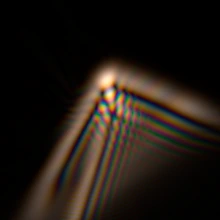
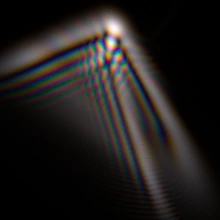
Engiscope: eye straylight in scenes, antialiased pupil, presets fixed, thumbnails
- Scenes add the eye's straylight (CIE 2002 glare spread function, with an
  age control) from 0.1° out: full resolution inside the computed PSF
  field, a 256² grid spanning 3× the view beyond it, handing over smoothly.
  The wave PSF field now ends in a circle and gives up the scattered energy.
- The pupil edge is antialiased over one texel; the hard-edged disc
  diffracted faint spikes along the grid axes, seen as a dotted line through
  the brightest lights.
- Built-in presets are really completed from the defaults now (the
  defaults were being reset to empty after capture).
- A calmer procedural town (~700 lamps, mag +0.5 to -5) and darker auto
  exposure.
- Built-in thumbnails re-baked (relative exposure, so a tile shows shape);
  new tiles for Half blink and -2 D at night.

diff --git a/engiscope/index.html b/engiscope/index.html
@@ -291,6 +291,7 @@
           <div class="ctrl"><div class="row"><label>fov</label><span class="num" id="n_sceneFov"></span></div><input type="range" id="sceneFov" min="1" max="40" step="0.1" value="12" title="field of view (long side)"></div>
           <div class="ctrl"><div class="row"><label>yaw</label><span class="num" id="n_sceneYaw"></span></div><input type="range" id="sceneYaw" min="-180" max="180" step="0.5" value="0" title="yaw"></div>
           <div class="ctrl"><div class="row"><label>pitch</label><span class="num" id="n_scenePitch"></span></div><input type="range" id="scenePitch" min="-85" max="85" step="0.1" value="1.5" title="pitch"></div>
+          <div class="ctrl"><div class="row"><label>age</label><span class="num" id="n_sceneAge"></span></div><input type="range" id="sceneAge" min="10" max="80" step="1" value="30" title="age (straylight grows with it)"></div>
           <div class="ctrl"><div class="row"><label>exposure</label><span class="num" id="n_sceneExp"></span></div><input type="range" id="sceneExp" min="-8" max="12" step="0.05" value="0" title="scene exposure (EV from auto)"></div>
         </div>
       </div>
@@ -364,14 +365,14 @@ const state={ N:256,Nreq:2048,D:4.0,camThresh:0.5,camSoft:0.05,camInvert:false,c
   eye:'R',blink:0,squint:0,lidOn:false,
   lashOn:false,lashUp:1.8,lashLo:0.7,lashFan:40,lashJit:9,lashDens:1,lashClump:0.35,lashCurl:0.45,lashDepth:6,lashThick:0.07,
   gamma:1,exposure:1,zoom:1,absExp:true,airyRing:false,tint:false,showWf:false,showApt:true,occ:false,
-  sceneOn:false,sceneFov:12,sceneYaw:0,scenePitch:1.5,sceneExp:0,sceneGlare:true,gpu:true,
+  sceneOn:false,sceneAge:30,sceneFov:12,sceneYaw:0,scenePitch:1.5,sceneExp:0,sceneGlare:true,gpu:true,
   near:false,nearLog:1.176 };   /* nearLog = log10(source distance, mm) — 15 mm ≈ a speck on glasses */
 ZMODES.forEach(m=>state.coeff[m.id]=0);
 
 let dx, gr=null, zb=null, fbin=null, re=null, im=null, psf=null;
 let antMask=null, antSpecRe=null, antSpecIm=null;
 let accX=null, accY=null, accZ=null;
-let sumA=0, peak=1, peakY=1, peakYdl=1, strehl=1, basisDirty=false, antDirty=true, throughput=1;
+let sumA=0, sumA2=0, peak=1, peakY=1, peakYdl=1, strehl=1, basisDirty=false, antDirty=true, throughput=1;
 let EC={};
 function rotc(c,s,ang){const m=Math.hypot(c,s),t=Math.atan2(s,c)+ang;return [m*Math.cos(t),m*Math.sin(t)];}
 function computeEC(){const a=state.rot*Math.PI/180,c=state.coeff;EC={defocus:c.defocus,sph:c.sph,comaX:c.comaX,comaY:c.comaY,trefX:c.trefX,trefY:c.trefY};
@@ -473,17 +474,28 @@ function ensureCpu(){const N=state.N;if(cpuN===N)return;const len=N*N;ensureOut(
     gr.c2[i]=Math.cos(2*th);gr.s2[i]=Math.sin(2*th);gr.c3[i]=Math.cos(3*th);gr.s3[i]=Math.sin(3*th);}
   cpuN=N;buildBasis();
   lashCpuKey='';}   /* antSpec is new */
-/* same inside-pupil test as the CPU basis (float32 radius <= R) */
-function pupilCount(){const N=state.N,c=N/2,R=state.D/2;let cnt=0;
-  for(let iy=0;iy<N;iy++){const y=(iy-c)*dx;for(let ix=0;ix<N;ix++){const x=(ix-c)*dx;if(Math.fround(Math.sqrt(x*x+y*y))<=R)cnt++;}}
-  return cnt;}
-function buildBasis(){if(cpuN!==state.N){sumA=pupilCount();return;}
-  const len=state.N*state.N,R=state.D/2,a=1/RREF,a2=a*a,a3=a2*a,a4=a3*a;let cnt=0;
-  for(let i=0;i<len;i++){if(gr.r[i]<=R){const rho=a*gr.r[i],rho2=a2*gr.r2[i],rho3=a3*gr.r3[i],rho4=a4*gr.r4[i];
+/* The pupil edge is antialiased over one texel. A hard r<=R disc is a
+   staircase whose flat runs at top, bottom and sides diffract faint spikes
+   along the grid axes -- invisible on a PSF, but a dotted line through every
+   bright light in a scene. sumA = Σa (sets the diffraction-limited peak),
+   sumA2 = Σa² (the energy). */
+function pupilA(r,R){const t=(R-r)/dx+0.5;return t<=0?0:t>=1?1:t;}
+function pupilCount(){const N=state.N,c=N/2,R=state.D/2,ro=R+0.5*dx,ri=R-0.5*dx;let s1=0,s2=0;
+  for(let iy=0;iy<N;iy++){const y=(iy-c)*dx;if(Math.abs(y)>=ro)continue;
+    /* full-amplitude interior counted in one go, only the rim texels looped */
+    const xi=ri*ri>y*y?Math.sqrt(ri*ri-y*y):-1,xo=Math.sqrt(ro*ro-y*y);
+    const i0=Math.max(0,Math.floor(c-xo/dx)-1),i1=Math.min(N-1,Math.ceil(c+xo/dx)+1);
+    const j0=xi>=0?Math.ceil(c-xi/dx)+1:i1+1,j1=xi>=0?Math.floor(c+xi/dx)-1:i1;
+    if(j1>=j0){s1+=j1-j0+1;s2+=j1-j0+1;}
+    for(let ix=i0;ix<=i1;ix++){if(ix>=j0&&ix<=j1)continue;const x=(ix-c)*dx,a=pupilA(Math.fround(Math.sqrt(x*x+y*y)),R);s1+=a;s2+=a*a;}}
+  sumA=s1;sumA2=s2;}
+function buildBasis(){if(cpuN!==state.N){pupilCount();return;}
+  const len=state.N*state.N,R=state.D/2,a=1/RREF,a2=a*a,a3=a2*a,a4=a3*a;
+  for(let i=0;i<len;i++){if(gr.r[i]<R+0.5*dx){const rho=a*gr.r[i],rho2=a2*gr.r2[i],rho3=a3*gr.r3[i],rho4=a4*gr.r4[i];
     zb[0][i]=S3*(2*rho2-1);zb[1][i]=S5*(6*rho4-6*rho2+1);zb[2][i]=S6*rho2*gr.c2[i];zb[3][i]=S6*rho2*gr.s2[i];
-    const cc=(3*rho3-2*rho);zb[4][i]=S8*cc*gr.c1[i];zb[5][i]=S8*cc*gr.s1[i];zb[6][i]=S8*rho3*gr.c3[i];zb[7][i]=S8*rho3*gr.s3[i];cnt++;}
+    const cc=(3*rho3-2*rho);zb[4][i]=S8*cc*gr.c1[i];zb[5][i]=S8*cc*gr.s1[i];zb[6][i]=S8*rho3*gr.c3[i];zb[7][i]=S8*rho3*gr.s3[i];}
     else{for(let k=0;k<zb.length;k++)zb[k][i]=0;}}
-  sumA=cnt;}
+  pupilCount();}
 
 /* ---- eye: lids and lashes ------------------------------------------------
    Everything is in the pupil frame, mm, from the patient's side looking out:
@@ -605,8 +617,9 @@ function fieldAtPupil(lambdaNm,cDeff){const N=state.N,len=N*N,k0=2*Math.PI/(lamb
   const lash=LASH.list.length>0,G=state.lidOn?lidGeom():null,soft=1.5*dx,camL=CAM.on&&!state.camColor&&antMask;
   if(lash){ensureLashCpu();if(lashDepthOn())applyFresnel(lambdaNm,LASH.z);else{for(let i=0;i<len;i++){re[i]=lashM[i];im[i]=0;}}}
   for(let i=0;i<len;i++){
-    if(gr.r[i]<=R||openAll){const W=cDeff*zb[0][i]+cS*zb[1][i]+cA0*zb[2][i]+cA45*zb[3][i]+cCx*zb[4][i]+cCy*zb[5][i]+cTx*zb[6][i]+cTy*zb[7][i];
-      const ph=k0*W;let m=1;
+    const ae=openAll?1:pupilA(gr.r[i],R);
+    if(ae>0){const W=cDeff*zb[0][i]+cS*zb[1][i]+cA0*zb[2][i]+cA45*zb[3][i]+cCx*zb[4][i]+cCy*zb[5][i]+cTx*zb[6][i]+cTy*zb[7][i];
+      const ph=k0*W;let m=ae;
       if(G){const iy=(i/N)|0;m*=lidT(G,(i-iy*N-c0)*dx,(iy-c0)*dx,soft);}
       if(camL)m*=antMask[i];
       const cph=m*Math.cos(ph),sph=m*Math.sin(ph);
@@ -721,10 +734,10 @@ function finishSpectral(ybSum,ybPk){const len=state.N*state.N;let pk=0,sY=0;
    ybSum = Σ ȳ (energy), ybPk = Σ ȳ·specW (diffraction-limited peak). */
 function finishStats(pk,sY,ybSum,ybPk){const len=state.N*state.N;peak=peakY=pk;if(ybPk===undefined)ybPk=ybSum;
   if(state.near){peakYdl=ybSum;           /* geometric irradiance of the open pupil */
-    strehl=ybSum>0?pk/ybSum:0;throughput=(sumA>0&&ybSum>0)?sY/(sumA*ybSum):1;return;}
+    strehl=ybSum>0?pk/ybSum:0;throughput=(sumA2>0&&ybSum>0)?sY/(sumA2*ybSum):1;return;}
   peakYdl=sumA*sumA*ybPk;                  /* diffraction-limited peak */
   strehl=sumA>0?Math.min(1,pk/peakYdl):0;
-  throughput=(sumA>0&&ybSum>0)?sY/(len*sumA*ybSum):1;}
+  throughput=(sumA2>0&&ybSum>0)?sY/(len*sumA2*ybSum):1;}
 
 function wlRGB(wl){let R=0,G=0,B=0;
   if(wl<440){R=-(wl-440)/60;B=1;}else if(wl<490){G=(wl-440)/50;B=1;}else if(wl<510){G=1;B=-(wl-510)/20;}
@@ -923,7 +936,8 @@ function gsCtx(){
       ' float m=(useMask==1)?texelFetch(mk,fc,0).r:1.0;if(useCam==1)m*=dot(texelFetch(cm,fc,0).rgb,cw);\n'+
       ' if(lidOn==1){float u=x-lu.y,v=x-ll.y;m*=smoothstep(0.0,1.0,(lu.x-lu.z*u*u+lu.w*x-y)/lsoft+0.5)*smoothstep(0.0,1.0,(y-ll.x-ll.z*v*v)/lsoft+0.5);}\n'+
       ' vec2 t=vec2(m,0.0);if(lashMode==1)t*=texelFetch(lm,fc,0).r;else if(lashMode==2)t=texelFetch(lm,fc,0).rg*(lmScale*m);\n'+
-      ' if(r<=R){float rho=a*r,rho2=rho*rho,rho3=rho2*rho,rho4=rho3*rho;float c1=r>0.0?x/r:1.0,s1=r>0.0?y/r:0.0;\n'+
+      ' float ae=clamp((R-r)/dx+0.5,0.0,1.0);if(openAll==0)t*=ae;\n'+
+      ' if(ae>0.0){float rho=a*r,rho2=rho*rho,rho3=rho2*rho,rho4=rho3*rho;float c1=r>0.0?x/r:1.0,s1=r>0.0?y/r:0.0;\n'+
       '  float c2=c1*c1-s1*s1,s2=2.0*c1*s1,c3=c1*(4.0*c1*c1-3.0),s3=s1*(3.0-4.0*s1*s1),cc=3.0*rho3-2.0*rho;\n'+
       '  float W=cD*S3*(2.0*rho2-1.0)+cS*S5*(6.0*rho4-6.0*rho2+1.0)+cA0*S6*rho2*c2+cA45*S6*rho2*s2+cCx*S8*cc*c1+cCy*S8*cc*s1+cTx*S8*rho3*c3+cTy*S8*rho3*s3;\n'+
       '  float ph=k0*W;ph-=TAU*floor(ph/TAU);float cp=cos(ph),sp=sin(ph);o=vec4(t.x*cp-t.y*sp,t.x*sp+t.y*cp,0.0,0.0);}\n'+
@@ -1438,9 +1452,17 @@ ctrlCol.addEventListener('dragover',e=>{if(!dragCard)return;e.preventDefault();c
    every one of them is spread by the PSF itself rather than smeared into
    the blocks of an equirect map. Extended light (sky, moon disc) is drawn
    analytically or sampled with filtering, and is convolved too.
-   Units: radiance per sr, flux in units of a magnitude-0 star. */
+   Units: radiance per sr, flux in units of a magnitude-0 star.
+   Past the edge of the computed PSF field the eye still scatters light --
+   cornea, lens, fundus -- out to tens of degrees. That straylight is the CIE
+   2002 glare spread function (θ in degrees, A = age, p = pigmentation):
+     Ψ(θ) = 10/θ³ + (5/θ² + 0.1p/θ)(1 + (A/62.5)⁴) + 0.0025p   sr⁻¹
+   added from 0.1° out (the wave PSF has no scatter in it). It is smooth, so it is
+   convolved on a coarse 256² grid spanning 3× the view (no wrap-around into
+   what you see) and added back. It also buries the FFT's float32 rounding
+   (~1e-11 of a source, along its row and column) under real veil. */
 const POLY_URL="https://dl.polyhaven.org/file/ph-assets/HDRIs/exr/4k/moonless_golf_4k.exr";
-const SC={NS:2048,PAD:1.15,src:null,srcVer:0,set:null,kKey:'',sKey:'',ks:[1,1,1],psfVer:0,eqVer:-1,ptVer:-1,ptN:0};
+const SC={NS:2048,PAD:1.15,NL:256,PADL:3,lset:null,lkKey:'',lsKey:'',lrKey:'',fout:0,src:null,srcVer:0,set:null,kKey:'',sKey:'',ks:[1,1,1],psfVer:0,eqVer:-1,ptVer:-1,ptN:0};
 let hdriStatus='night';
 function setSceneStatus(s){if(s!==undefined)hdriStatus=s;const e=document.getElementById("sceneStatus");if(e)e.textContent=hdriStatus;}
 function sceneFovEff(){return state.sceneFov/Math.max(1,state.zoom);}
@@ -1456,7 +1478,8 @@ function bvRGB(bv){const T=4600*(1/(0.92*bv+1.7)+1/(0.92*bv+0.62)),t=T/100;
 function airmass(lat){const a=Math.max(0.5,lat*180/Math.PI);return 1/Math.sin((a+244/(165+47*Math.pow(a,1.1)))*Math.PI/180);}
 /* procedural night: a dark rural-ish sky over a distant town. ~30k stars to
    mag 8 (counts rising ~10^0.45m), two planets, a moon off to the left,
-   and ~1500 town lights from mag -10 to -1: sodium, LED, warm white,
+   and ~700 lights of a town a few km off (1000 cd lamps ≈ mag -2 at 10 km),
+   mag +0.5 to -5: sodium, LED, warm white,
    a few signals. Stars near the horizon are extincted and reddened. */
 function loadProcedural(){const w=2048,h=1024,d=new Float32Array(w*h*3),rng=mulberry32(7);
   for(let y=0;y<h;y++){const lat=(0.5-(y+0.5)/h)*Math.PI;
@@ -1475,10 +1498,10 @@ function loadProcedural(){const w=2048,h=1024,d=new Float32Array(w*h*3),rng=mulb
   push(dirOf(-0.35,0.14),Math.pow(10,1.76),bvRGB(0.8));       /* Venus-like, mag -4.4 */
   push(dirOf(0.42,0.52),Math.pow(10,1.0),bvRGB(0.9));         /* Jupiter-like, mag -2.5 */
   const COL=[[1,0.55,0.16],[1,0.9,0.78],[1,0.74,0.48],[1,0.12,0.06],[0.25,1,0.45],[0.6,0.75,1]];
-  for(let s=0;s<1500;s++){const street=rng()<0.6;let lon,lat;
+  for(let s=0;s<700;s++){const street=rng()<0.6;let lon,lat;
     if(street){const k=(rng()*14)|0,a=-0.55+k*0.08,t=rng();lon=a+t*0.06;lat=-0.004+t*0.007*(k%2?1:-0.4);}
     else{lon=(rng()*2-1)*0.62;lat=-0.012+rng()*0.016;}
-    const u=rng(),ci=u<0.45?0:u<0.8?1:u<0.95?2:3+((rng()*3)|0),m=rng()<0.02?-7-2*rng():-0.5-5.5*Math.pow(rng(),2.5);
+    const u=rng(),ci=u<0.45?0:u<0.8?1:u<0.95?2:3+((rng()*3)|0),m=rng()<0.03?-4-1.5*rng():0.5-3.5*Math.pow(rng(),1.8);
     const c=COL[ci],Y=0.2126*c[0]+0.7152*c[1]+0.0722*c[2];push(dirOf(lon,lat),Math.pow(10,-0.4*m)/Y,c);}
   push(dirOf(0.03,0.055),Math.pow(10,1.2),[1,0.12,0.05]);    /* a mast beacon */
   setSource({name:'night',eq:{w,h,data:d},pts:new Float32Array(P),
@@ -1509,7 +1532,7 @@ function extractPoints(eq){const {w,h,data}=eq,Y=new Float32Array(w*h),P=[];
 function setSource(src){const eq=src.eq,Ys=[];   /* median of the sky (upper half) */
   for(let i=0;i<eq.w*(eq.h>>1);i+=97)Ys.push(0.2126*eq.data[i*3]+0.7152*eq.data[i*3+1]+0.0722*eq.data[i*3+2]);
   Ys.sort((a,b)=>a-b);const med=Ys[Ys.length>>1]||1;
-  src.base=0.012/Math.max(1e-12,med);  /* auto exposure: the sky just above black */
+  src.base=0.006/Math.max(1e-12,med);  /* auto exposure: the sky just above black */
   SC.src=src;SC.srcVer++;setSceneStatus(src.name+' · '+eq.w+'×'+eq.h+' · '+(src.pts.length/6|0)+' points');
   if(state.sceneOn)requestCompute();}
 function setHDRI(name,parsed){setSceneStatus('finding point lights…');
@@ -1517,7 +1540,7 @@ function setHDRI(name,parsed){setSceneStatus('finding point lights…');
 
 /* --- GPU --------------------------------------------------------------- */
 function scCtx(){if(SC.ready)return true;if(SC.failed||!gsCtx())return false;const gl=gs.gl;
-  try{SC.blend=!!gl.getExtension('EXT_float_blend');gl.getExtension('OES_texture_float_linear');
+  try{SC.blend=!!gl.getExtension('EXT_float_blend');SC.flin=!!gl.getExtension('OES_texture_float_linear');
     const H='#version 300 es\nprecision highp float;precision highp int;\n';
     const mk=(vs,fs,attrs)=>{const c=(t,src)=>{const sh=gl.createShader(t);gl.shaderSource(sh,src);gl.compileShader(sh);if(!gl.getShaderParameter(sh,gl.COMPILE_STATUS))throw new Error(gl.getShaderInfoLog(sh));return sh;};
       const pr=gl.createProgram();gl.attachShader(pr,c(gl.VERTEX_SHADER,vs));gl.attachShader(pr,c(gl.FRAGMENT_SHADER,fs));
@@ -1541,38 +1564,52 @@ function scCtx(){if(SC.ready)return true;if(SC.failed||!gsCtx())return false;con
       'vec3 at(vec2 p){vec2 f=floor(p);vec2 a=p-f;ivec2 i=ivec2(f);if(i.x<0||i.y<0||i.x+1>=N||i.y+1>=N)return vec3(0.0);\n'+
       ' vec3 s=mix(mix(texelFetch(acc,i,0).rgb,texelFetch(acc,i+ivec2(1,0),0).rgb,a.x),mix(texelFetch(acc,i+ivec2(0,1),0).rgb,texelFetch(acc,i+ivec2(1,1),0).rgb,a.x),a.y);return s;}\n'+
       'void main(){ivec2 k=ivec2(gl_FragCoord.xy);vec2 d=vec2(k.x<NS/2?k.x:k.x-NS,k.y<NS/2?k.y:k.y-NS);float h=float(N/2);\n'+
-      ' float e=max(abs(d.x),abs(d.y))*ratio/h;if(e>1.0){o=vec4(0.0);return;}vec3 X=vec3(0.0);\n'+
+      ' float e=length(d)*ratio/h;if(e>1.0){o=vec4(0.0);return;}vec3 X=vec3(0.0);\n'+
       ' for(int j=0;j<16;j++){if(j>=n)break;for(int i=0;i<16;i++){if(i>=n)break;vec2 u=(d+(vec2(i,j)+0.5)/float(n)-0.5)*ratio;X+=at(vec2(h)-u);}}\n'+
       ' vec3 c=vec3(3.2406*X.x-1.5372*X.y-0.4986*X.z,-0.9689*X.x+1.8758*X.y+0.0415*X.z,0.0557*X.x-0.2040*X.y+1.0570*X.z);\n'+
-      /* the computed field ends in a square; ease it out over its outer quarter so
-         the brightest lights don't print that square */
+      /* the computed field is ended in a circle, eased out over its outer
+         quarter, so the brightest lights don't print the grid's square */
       ' float tp=0.5+0.5*cos(3.14159265*clamp((e-0.75)/0.25,0.0,1.0));o=vec4(max(c,0.0)*tp,0.0);}');
     /* spectrum product, unpacking (R+iG, B) on both sides */
-    SC.pMUL=mk(GS_VS,H+'uniform sampler2D sc;uniform sampler2D kr;uniform int NS;uniform vec3 ks;out vec4 o;\n'+
+    SC.pMUL=mk(GS_VS,H+'uniform sampler2D sc;uniform sampler2D kr;uniform sampler2D k2;uniform int use2;uniform int NS;uniform vec3 ks;out vec4 o;\n'+
       'vec2 cm(vec2 a,vec2 b){return vec2(a.x*b.x-a.y*b.y,a.x*b.y+a.y*b.x);}\n'+
       'void main(){ivec2 k=ivec2(gl_FragCoord.xy),q=ivec2((NS-k.x)%NS,(NS-k.y)%NS);vec4 s=texelFetch(sc,k,0),sn=texelFetch(sc,q,0),c=texelFetch(kr,k,0),cn=texelFetch(kr,q,0);\n'+
       ' vec2 Zs=s.xy,Zsn=vec2(sn.x,-sn.y),Zk=c.xy,Zkn=vec2(cn.x,-cn.y);\n'+
-      ' vec2 R=(Zs+Zsn)*0.5,G=cm(Zs-Zsn,vec2(0.0,-0.5)),KR=(Zk+Zkn)*0.5*ks.x,KG=cm(Zk-Zkn,vec2(0.0,-0.5))*ks.y;\n'+
-      ' o=vec4(cm(R,KR)+cm(vec2(0.0,1.0),cm(G,KG)),cm(s.zw,c.zw*ks.z));}');
-    /* tone: ACES on exposure, visible crop, k×k box */
-    SC.pTON=mk(GS_VS,H+'uniform sampler2D src;uniform ivec2 c0;uniform int k;uniform float E;uniform int NS;out vec4 o;\n'+
+      ' vec2 R=(Zs+Zsn)*0.5,G=cm(Zs-Zsn,vec2(0.0,-0.5)),KR=(Zk+Zkn)*0.5*ks.x,KG=cm(Zk-Zkn,vec2(0.0,-0.5))*ks.y;vec2 KB=c.zw*ks.z;\n'+
+      ' if(use2==1){vec4 e=texelFetch(k2,k,0),en=texelFetch(k2,q,0);vec2 Z2=e.xy,Z2n=vec2(en.x,-en.y);KR+=(Z2+Z2n)*0.5;KG+=cm(Z2-Z2n,vec2(0.0,-0.5));KB+=e.zw;}\n'+
+      ' o=vec4(cm(R,KR)+cm(vec2(0.0,1.0),cm(G,KG)),cm(s.zw,KB));}');
+    /* straylight kernel on the coarse grid. The wave PSF has diffraction and
+       aberration but no scatter, so Ψ is added everywhere (inside the
+       computed field too), ramped in over 0.1-0.3° where the CIE fit starts. */
+    /* far: the coarse-grid share, near: the full-resolution share; they hand
+       over between c0 and c1 degrees, inside the computed field */
+    SC.pSLK=mk(GS_VS,H+'uniform int NL;uniform float psd;uniform float om;uniform float age;uniform float pig;uniform float g;uniform int far;uniform vec2 cx;out vec4 o;\n'+
+      'void main(){ivec2 k=ivec2(gl_FragCoord.xy);vec2 d=vec2(k.x<NL/2?k.x:k.x-NL,k.y<NL/2?k.y:k.y-NL);\n'+
+      ' float th=max(length(d)*psd,0.1);float f=1.0+pow(age/62.5,4.0),hand=smoothstep(cx.x,cx.y,th),w=smoothstep(0.1,0.3,th)*(far==1?hand:1.0-hand);\n'+
+      ' float psi=10.0/(th*th*th)+(5.0/(th*th)+0.1*pig/th)*f+0.0025*pig;float v=psi*om*w*g;o=vec4(v,v,v,0.0);}');
+    /* tone: ACES on exposure, visible crop, k×k box, plus the coarse straylight */
+    SC.pTON=mk(GS_VS,H+'uniform sampler2D src;uniform sampler2D lo;uniform int slOn;uniform float EL;uniform float lsc;uniform int NL;uniform ivec2 c0;uniform int k;uniform float E;uniform int NS;out vec4 o;\n'+
       'vec3 aces(vec3 x){return clamp((x*(2.51*x+0.03))/(x*(2.43*x+0.59)+0.14),0.0,1.0);}\n'+
       'vec3 s2s(vec3 c){vec3 lo=12.92*c;vec3 hi=1.055*pow(max(c,0.0),vec3(1.0/2.4))-0.055;return mix(lo,hi,step(0.0031308,c));}\n'+
       'void main(){ivec2 p=c0+ivec2(gl_FragCoord.xy)*k;vec3 s=vec3(0.0);float n=0.0;\n'+
-      ' for(int j=0;j<k;j++)for(int i=0;i<k;i++){ivec2 q=p+ivec2(i,j);if(q.x<NS&&q.y<NS){s+=s2s(aces(max(texelFetch(src,q,0).rgb,0.0)*E));n+=1.0;}}o=vec4(s/max(n,1.0),1.0);}');
+      ' for(int j=0;j<k;j++)for(int i=0;i<k;i++){ivec2 q=p+ivec2(i,j);if(q.x<NS&&q.y<NS){vec3 c=max(texelFetch(src,q,0).rgb,0.0)*E;\n'+
+      '  if(slOn==1){vec2 u=((vec2(q)+0.5-float(NS/2))*lsc+float(NL/2))/float(NL);c+=max(texture(lo,u).rgb,0.0)*EL;}\n'+
+      '  s+=s2s(aces(c));n+=1.0;}}o=vec4(s/max(n,1.0),1.0);}');
     SC.pvao=gl.createVertexArray();gl.bindVertexArray(SC.pvao);SC.pbuf=gl.createBuffer();gl.bindBuffer(gl.ARRAY_BUFFER,SC.pbuf);
     gl.enableVertexAttribArray(0);gl.vertexAttribPointer(0,3,gl.FLOAT,false,24,0);gl.enableVertexAttribArray(1);gl.vertexAttribPointer(1,3,gl.FLOAT,false,24,12);
     gl.bindVertexArray(gs.vao);
     SC.ready=true;return true;
   }catch(e){console.warn('scene GPU init failed:',e.message);SC.failed=true;return false;}}
-function scSet(){const gl=gs.gl,NS=SC.NS;if(SC.set&&SC.set.NS===NS)return SC.set;
-  const S={NS,tex:[],fbo:[]};
+function scSet(low){const gl=gs.gl,NS=low?SC.NL:SC.NS,cur=low?SC.lset:SC.set;if(cur&&cur.NS===NS)return cur;
+  const S={NS,tex:[],fbo:[]},filt=(low&&SC.flin)?gl.LINEAR:gl.NEAREST;
   const tex=()=>{const t=gl.createTexture();gl.bindTexture(gl.TEXTURE_2D,t);
-    gl.texParameteri(gl.TEXTURE_2D,gl.TEXTURE_MIN_FILTER,gl.NEAREST);gl.texParameteri(gl.TEXTURE_2D,gl.TEXTURE_MAG_FILTER,gl.NEAREST);
+    gl.texParameteri(gl.TEXTURE_2D,gl.TEXTURE_MIN_FILTER,filt);gl.texParameteri(gl.TEXTURE_2D,gl.TEXTURE_MAG_FILTER,filt);
+    gl.texParameteri(gl.TEXTURE_2D,gl.TEXTURE_WRAP_S,gl.CLAMP_TO_EDGE);gl.texParameteri(gl.TEXTURE_2D,gl.TEXTURE_WRAP_T,gl.CLAMP_TO_EDGE);
     gl.texStorage2D(gl.TEXTURE_2D,1,gl.RGBA32F,NS,NS);S.tex.push(t);return t;};
   const fbo=t=>{const f=gl.createFramebuffer();gl.bindFramebuffer(gl.FRAMEBUFFER,f);gl.framebufferTexture2D(gl.FRAMEBUFFER,gl.COLOR_ATTACHMENT0,gl.TEXTURE_2D,t,0);S.fbo.push(f);return f;};
   S.A=tex();S.B=tex();S.K=tex();S.Ssp=tex();S.fA=fbo(S.A);S.fB=fbo(S.B);S.fK=fbo(S.K);S.fS=fbo(S.Ssp);
-  gl.bindFramebuffer(gl.FRAMEBUFFER,null);SC.set=S;return S;}
+  if(!low){S.K2=tex();S.fK2=fbo(S.K2);}
+  gl.bindFramebuffer(gl.FRAMEBUFFER,null);if(low)SC.lset=S;else SC.set=S;return S;}
 /* the PSF FFT program on RGBA: two complex signals per texel */
 function scFFT(S,fromA,sign){const gl=gs.gl,n=S.NS,P=gs.pFFT;gl.useProgram(P);gl.viewport(0,0,n,n);
   gl.uniform1i(P.u('N'),n);gl.uniform1i(P.u('src'),0);gl.uniform1f(P.u('sgn'),sign);gl.activeTexture(gl.TEXTURE0);
@@ -1584,6 +1621,26 @@ function camMat(){const p=state.scenePitch*Math.PI/180,y=state.sceneYaw*Math.PI/
   const R=[[cy,sy*sp,sy*cp],[0,cp,-sp],[-sy,cy*sp,cy*cp]];   /* rows */
   return {M:[R[0][0],R[1][0],R[2][0],R[0][1],R[1][1],R[2][1],R[0][2],R[1][2],R[2][2]],
           Mi:[R[0][0],R[0][1],R[0][2],R[1][0],R[1][1],R[1][2],R[2][0],R[2][1],R[2][2]]};}
+/* background + moon + points into S.A, for a grid of S.NS spanning fov (rad) */
+function scRender(S,t,fov,cm){const gl=gs.gl,NS=S.NS,src=SC.src,P=SC.pSCN;
+  gl.useProgram(P);gl.bindFramebuffer(gl.FRAMEBUFFER,S.fA);gl.viewport(0,0,NS,NS);
+  gl.activeTexture(gl.TEXTURE0);gl.bindTexture(gl.TEXTURE_2D,SC.eqTex);gl.uniform1i(P.u('eq'),0);
+  gl.uniformMatrix3fv(P.u('M'),false,cm.M);gl.uniform1f(P.u('t'),t);gl.uniform1i(P.u('NS'),NS);gl.uniform1f(P.u('pxa'),fov/NS);
+  const m=src.moon;gl.uniform1i(P.u('moonOn'),m?1:0);
+  if(m){gl.uniform3f(P.u('md'),m.dir[0],m.dir[1],m.dir[2]);gl.uniform1f(P.u('mr'),m.rad);gl.uniform3f(P.u('mL'),m.L*m.rgb[0],m.L*m.rgb[1],m.L*m.rgb[2]);}
+  gsQuad();
+  if(SC.blend&&SC.ptN){const Q=SC.pPTS;gl.useProgram(Q);gl.bindVertexArray(SC.pvao);
+    gl.uniformMatrix3fv(Q.u('Mi'),false,cm.Mi);gl.uniform1f(Q.u('t'),t);gl.uniform1i(Q.u('NS'),NS);gl.uniform1f(Q.u('om'),Math.pow(2*t/NS,2));
+    gl.enable(gl.BLEND);gl.blendFunc(gl.ONE,gl.ONE);gl.drawArrays(gl.POINTS,0,SC.ptN);gl.disable(gl.BLEND);gl.bindVertexArray(gs.vao);}}
+/* FFT S.A in place and keep the spectrum in S.Ssp */
+function scSpectrum(S){const gl=gs.gl,inA=scFFT(S,true,-1);gl.useProgram(gs.pCPY);gl.uniform1i(gs.pCPY.u('src'),0);gl.uniform1i(gs.pCPY.u('mode'),2);
+  gl.bindFramebuffer(gl.FRAMEBUFFER,S.fS);gl.viewport(0,0,S.NS,S.NS);gl.activeTexture(gl.TEXTURE0);gl.bindTexture(gl.TEXTURE_2D,inA?S.A:S.B);gsQuad();}
+/* product of S.Ssp and S.K, back to space; returns the texture holding it */
+function scProduct(S,ks,k2){const gl=gs.gl,P=SC.pMUL,NS=S.NS;gl.useProgram(P);gl.bindFramebuffer(gl.FRAMEBUFFER,S.fA);gl.viewport(0,0,NS,NS);
+  gl.activeTexture(gl.TEXTURE0);gl.bindTexture(gl.TEXTURE_2D,S.Ssp);gl.activeTexture(gl.TEXTURE1);gl.bindTexture(gl.TEXTURE_2D,S.K);
+  gl.activeTexture(gl.TEXTURE2);gl.bindTexture(gl.TEXTURE_2D,k2||S.K);gl.uniform1i(P.u('k2'),2);gl.uniform1i(P.u('use2'),k2?1:0);
+  gl.uniform1i(P.u('sc'),0);gl.uniform1i(P.u('kr'),1);gl.uniform1i(P.u('NS'),NS);gl.uniform3f(P.u('ks'),ks[0],ks[1],ks[2]);gsQuad();
+  return scFFT(S,true,1)?S.A:S.B;}
 function sceneCompute(){
   if(!gs.frame||!scCtx()||!SC.src){const msg=!SC.src?'loading…':'scene needs the GPU path';setSceneStatus(msg);draw0();return;}
   const gl=gs.gl,S=scSet(),NS=S.NS,src=SC.src,fov=sceneFovEff()*SC.PAD*Math.PI/180,t=Math.tan(fov/2),ps=fov/NS*ARCSEC;
@@ -1596,8 +1653,23 @@ function sceneCompute(){
     gl.texImage2D(gl.TEXTURE_2D,0,gl.RGBA16F,eq.w,eq.h,0,gl.RGBA,gl.FLOAT,rgba);
     gl.bindBuffer(gl.ARRAY_BUFFER,SC.pbuf);gl.bufferData(gl.ARRAY_BUFFER,src.pts,gl.STATIC_DRAW);SC.ptN=src.pts.length/6;SC.eqVer=SC.srcVer;}
   const glare=state.sceneGlare;
+  /* coarse straylight: kernel, scene and product on the 256² grid */
+  const L=scSet(true),NL=L.NS,fovL=sceneFovEff()*SC.PADL*Math.PI/180,tL=Math.tan(fovL/2),psL=fovL/NL*ARCSEC,pp=arcAt(gs.cur.N);
+  const lkKey=[throughput.toFixed(6),psL.toFixed(5),ps.toFixed(5),pp.toFixed(5),gs.cur.N,state.sceneAge].join('|');
+  if(glare&&lkKey!==SC.lkKey){
+    /* hand-over inside the computed field: 40-70% of its radius */
+    const Rf=gs.cur.N/2*pp/3600,cx=[0.4*Rf,0.7*Rf],px=new Float32Array(4);let dc=0;
+    const slk=(T,n,psec,far,dst)=>{const P=SC.pSLK;gl.useProgram(P);gl.bindFramebuffer(gl.FRAMEBUFFER,T.fA);gl.viewport(0,0,n,n);
+      gl.uniform1i(P.u('NL'),n);gl.uniform1f(P.u('psd'),psec/3600);gl.uniform1f(P.u('om'),Math.pow(psec/ARCSEC,2));gl.uniform1i(P.u('far'),far);
+      gl.uniform2f(P.u('cx'),cx[0],cx[1]);gl.uniform1f(P.u('age'),state.sceneAge);gl.uniform1f(P.u('pig'),0.5);gl.uniform1f(P.u('g'),Math.max(0,throughput));gsQuad();
+      const inA=scFFT(T,true,-1);gl.useProgram(gs.pCPY);gl.uniform1i(gs.pCPY.u('src'),0);gl.uniform1i(gs.pCPY.u('mode'),2);
+      gl.bindFramebuffer(gl.FRAMEBUFFER,dst);gl.activeTexture(gl.TEXTURE0);gl.bindTexture(gl.TEXTURE_2D,inA?T.A:T.B);gsQuad();
+      gl.readPixels(0,0,1,1,gl.RGBA,gl.FLOAT,px);dc+=px[0];};
+    slk(L,NL,psL,1,L.fK);slk(S,NS,ps,0,S.fK2);
+    /* the energy scattered out comes from the core */
+    SC.fout=Math.min(0.5,Math.max(0,dc/Math.max(1e-9,throughput)));SC.lkKey=lkKey;SC.lrKey='';SC.kKey='';SC.sKey='';}
   /* kernel spectrum: once per PSF frame and scene scale */
-  const kKey=SC.psfVer+'|'+ps.toFixed(5)+'|'+NS;
+  const kKey=SC.psfVer+'|'+ps.toFixed(5)+'|'+NS+'|'+SC.fout.toFixed(6);
   if(glare&&kKey!==SC.kKey){const P=SC.pKER,N=gs.cur.N,ratio=ps/arcAt(N);
     gl.useProgram(P);gl.bindFramebuffer(gl.FRAMEBUFFER,S.fA);gl.viewport(0,0,NS,NS);
     gl.activeTexture(gl.TEXTURE0);gl.bindTexture(gl.TEXTURE_2D,gs.cur.acc[gs.cur.cur]);gl.uniform1i(P.u('acc'),0);
@@ -1607,37 +1679,33 @@ function sceneCompute(){
     gl.useProgram(gs.pCPY);gl.uniform1i(gs.pCPY.u('src'),0);gl.uniform1i(gs.pCPY.u('mode'),2);gl.bindFramebuffer(gl.FRAMEBUFFER,S.fK);
     gl.bindTexture(gl.TEXTURE_2D,inA?S.A:S.B);gsQuad();
     const px=new Float32Array(4);gl.readPixels(0,0,1,1,gl.RGBA,gl.FLOAT,px);
-    const tp=Math.max(0,throughput);SC.ks=[px[0]>0?tp/px[0]:0,px[1]>0?tp/px[1]:0,px[2]>0?tp/px[2]:0];SC.kKey=kKey;SC.sKey='';}
+    const tp=Math.max(0,throughput)*(1-SC.fout);SC.ks=[px[0]>0?tp/px[0]:0,px[1]>0?tp/px[1]:0,px[2]>0?tp/px[2]:0];SC.kKey=kKey;SC.sKey='';}
   /* scene spectrum: once per view */
   const cm=camMat(),sKey=[SC.srcVer,state.sceneYaw,state.scenePitch,fov.toFixed(6),NS,glare].join('|');
-  if(sKey!==SC.sKey){const P=SC.pSCN;gl.useProgram(P);gl.bindFramebuffer(gl.FRAMEBUFFER,S.fA);gl.viewport(0,0,NS,NS);
-    gl.activeTexture(gl.TEXTURE0);gl.bindTexture(gl.TEXTURE_2D,SC.eqTex);gl.uniform1i(P.u('eq'),0);
-    gl.uniformMatrix3fv(P.u('M'),false,cm.M);gl.uniform1f(P.u('t'),t);gl.uniform1i(P.u('NS'),NS);gl.uniform1f(P.u('pxa'),fov/NS);
-    const m=src.moon;gl.uniform1i(P.u('moonOn'),m?1:0);
-    if(m){gl.uniform3f(P.u('md'),m.dir[0],m.dir[1],m.dir[2]);gl.uniform1f(P.u('mr'),m.rad);gl.uniform3f(P.u('mL'),m.L*m.rgb[0],m.L*m.rgb[1],m.L*m.rgb[2]);}
-    gsQuad();
-    if(SC.blend&&SC.ptN){const Q=SC.pPTS;gl.useProgram(Q);gl.bindVertexArray(SC.pvao);
-      gl.uniformMatrix3fv(Q.u('Mi'),false,cm.Mi);gl.uniform1f(Q.u('t'),t);gl.uniform1i(Q.u('NS'),NS);gl.uniform1f(Q.u('om'),Math.pow(2*t/NS,2));
-      gl.enable(gl.BLEND);gl.blendFunc(gl.ONE,gl.ONE);gl.drawArrays(gl.POINTS,0,SC.ptN);gl.disable(gl.BLEND);gl.bindVertexArray(gs.vao);}
+  if(sKey!==SC.sKey){scRender(S,t,fov,cm);
     if(glare){const inA=scFFT(S,true,-1);gl.useProgram(gs.pCPY);gl.uniform1i(gs.pCPY.u('mode'),2);gl.bindFramebuffer(gl.FRAMEBUFFER,S.fS);
       gl.activeTexture(gl.TEXTURE0);gl.bindTexture(gl.TEXTURE_2D,inA?S.A:S.B);gsQuad();}
     SC.sKey=sKey;SC.rKey='';}
+  const lsKey=sKey+'|L';
+  if(glare&&lsKey!==SC.lsKey){scRender(L,tL,fovL,cm);scSpectrum(L);SC.lsKey=lsKey;SC.lrKey='';}
+  if(glare&&SC.lrKey!==SC.lkKey+'#'+SC.lsKey){SC.lout=scProduct(L,[1,1,1]);SC.lrKey=SC.lkKey+'#'+SC.lsKey;}
   /* product + inverse, once per (kernel, scene) */
   let outT=S.A,scale=1;
   if(glare){const rKey=SC.kKey+'#'+SC.sKey;
-    if(rKey!==SC.rKey){const P=SC.pMUL;gl.useProgram(P);gl.bindFramebuffer(gl.FRAMEBUFFER,S.fA);gl.viewport(0,0,NS,NS);
-      gl.activeTexture(gl.TEXTURE0);gl.bindTexture(gl.TEXTURE_2D,S.Ssp);gl.activeTexture(gl.TEXTURE1);gl.bindTexture(gl.TEXTURE_2D,S.K);
-      gl.uniform1i(P.u('sc'),0);gl.uniform1i(P.u('kr'),1);gl.uniform1i(P.u('NS'),NS);gl.uniform3f(P.u('ks'),SC.ks[0],SC.ks[1],SC.ks[2]);gsQuad();
-      SC.outA=scFFT(S,true,1);SC.rKey=rKey;}
-    outT=SC.outA?S.A:S.B;scale=1/(NS*NS);}
+    if(rKey!==SC.rKey){SC.outT=scProduct(S,SC.ks,S.K2);SC.rKey=rKey;}
+    outT=SC.outT;scale=1/(NS*NS);}
   /* tone the visible part and draw it */
+  if(!dispW||!dispH)return;
   const W=dispW,H=dispH,Wl=Math.max(W,H),vis=NS/SC.PAD,sc=Wl/vis,vw=W/sc,vh=H/sc,
         x0=Math.max(0,Math.floor(NS/2-vw/2)),y0=Math.max(0,Math.floor(NS/2-vh/2)),cw=Math.min(NS-x0,Math.ceil(vw)+1),ch=Math.min(NS-y0,Math.ceil(vh)+1),
         k=Math.max(1,Math.ceil(Math.max(cw,ch)/GS_MAXTONE)),Mw=Math.ceil(cw/k),Mh=Math.ceil(ch/k);
   if(gs.cv.width!==Mw||gs.cv.height!==Mh){gs.cv.width=Mw;gs.cv.height=Mh;}
   const T=SC.pTON;gl.useProgram(T);gl.bindFramebuffer(gl.FRAMEBUFFER,null);gl.viewport(0,0,Mw,Mh);
   gl.activeTexture(gl.TEXTURE0);gl.bindTexture(gl.TEXTURE_2D,outT);gl.uniform1i(T.u('src'),0);gl.uniform2i(T.u('c0'),x0,y0);gl.uniform1i(T.u('k'),k);
-  gl.uniform1i(T.u('NS'),NS);gl.uniform1f(T.u('E'),scale*src.base*Math.pow(2,state.sceneExp));gsQuad();
+  const Ev=src.base*Math.pow(2,state.sceneExp);
+  gl.activeTexture(gl.TEXTURE1);gl.bindTexture(gl.TEXTURE_2D,SC.lout||L.A);gl.uniform1i(T.u('lo'),1);gl.uniform1i(T.u('slOn'),glare&&SC.lout?1:0);
+  gl.uniform1f(T.u('EL'),Ev/(NL*NL));gl.uniform1f(T.u('lsc'),ps/psL);gl.uniform1i(T.u('NL'),NL);
+  gl.uniform1i(T.u('NS'),NS);gl.uniform1f(T.u('E'),scale*Ev);gsQuad();
   pctx.imageSmoothingEnabled=true;pctx.imageSmoothingQuality="high";pctx.fillStyle="#000";pctx.fillRect(0,0,W,H);
   /* canvas rows run top-down, the texture bottom-up: the GL canvas is already upright */
   pctx.drawImage(gs.cv,0,0,Mw,Mh,W/2+(x0-NS/2)*sc,H/2-(y0+ch-NS/2)*sc,cw*sc,ch*sc);
@@ -1810,7 +1878,7 @@ document.querySelectorAll('#srcSeg button').forEach(b=>b.addEventListener('click
   const src=b.dataset.src;if(src==='night')loadProcedural();else if(src==='fetch')loadFromURL(POLY_URL);else document.getElementById("hdriFile").click();}));
 document.getElementById("hdriFile").addEventListener('change',e=>{if(e.target.files[0])loadFile(e.target.files[0]);});
 (function(){const bind=(id,k)=>{const el=document.getElementById(id);el.addEventListener('input',()=>{state[k]=parseFloat(el.value);if(state.sceneOn)draw();});};
-  bind("sceneFov","sceneFov");bind("sceneYaw","sceneYaw");bind("scenePitch","scenePitch");bind("sceneExp","sceneExp");
+  bind("sceneFov","sceneFov");bind("sceneAge","sceneAge");bind("sceneYaw","sceneYaw");bind("scenePitch","scenePitch");bind("sceneExp","sceneExp");
   /* drag the view to look around */
   let d=null;psfCanvas.addEventListener('pointerdown',e=>{if(!state.sceneOn)return;d={x:e.clientX,y:e.clientY,yaw:state.sceneYaw,pit:state.scenePitch};psfCanvas.setPointerCapture(e.pointerId);});
   psfCanvas.addEventListener('pointermove',e=>{if(!d)return;const k=sceneFovEff()/Math.max(innerWidth,innerHeight);
@@ -1980,6 +2048,7 @@ function paintPerf(){
     camThresh:  v=>v.toFixed(2),
     camRes:     v=>v.toFixed(0)+' px',
     camSoft:    v=>v.toFixed(3),
+    sceneAge:   v=>v.toFixed(0)+' y',
     sceneExp:   v=>(v>=0?'+':'')+v.toFixed(2)+' EV'
   };
   const upds=[];
@@ -2048,7 +2117,7 @@ function syncSlidersFromState(){
 /* Like parhelion, a preset is completed from the defaults before it is
    applied, so a load lands in the same place whatever was on screen. Older
    presets (no zref) carry coefficients over their own pupil. */
-var SNAP_DEFAULTS=null;
+var SNAP_DEFAULTS;   /* assigned (hoisted) just before the library; no initialiser here or it resets */
 function completeSnap(o){const d=SNAP_DEFAULTS||{},r=Object.assign({},d,o);
   r.coeff=Object.assign({},d.coeff||{},(o.zref||!o.coeff)?(o.coeff||{}):rescaleCoeff(o.coeff,o.D||4,DREF));
   r.zref=DREF;if(r.zoom<1)r.zoom=1;return r;}
@@ -2069,7 +2138,7 @@ function applySnapshot(o,part){if(!o)return;o=completeSnap(o);
   const b=(id,name,snap)=>({id:'b:'+id,name,builtin:true,snap:completeSnap(Object.assign({zref:DREF},snap))});
   const BUILTIN=Object.keys(PRESETS).map(nm=>b(nm,nm,{coeff:Object.assign(zero(),PRESETS[nm]),D:nm==='Typical eye'?6:4}));
   BUILTIN.push(
-    b('speck','Speck on glasses',{coeff:zero(),near:true,nearLog:1.176,D:4,lashOn:true,zoom:1.6}),
+    b('speck','Speck on glasses',{coeff:zero(),near:true,nearLog:1.176,D:4,lashOn:true,lidOn:true,blink:0.3,zoom:1.6}),
     b('squint','Squint',{coeff:at4({defocus:0.25}),D:4,lashOn:true,lidOn:true,squint:0.78}),
     b('blink','Half blink',{coeff:zero(),D:5,lashOn:true,lidOn:true,blink:0.45}),
     b('myope','−2 D at night',{coeff:Object.assign(zero(),rxToCoeff(-2,0,180)),D:7,lashOn:true,lidOn:true}));
@@ -2094,7 +2163,7 @@ function applySnapshot(o,part){if(!o)return;o=completeSnap(o);
       if(o.coeff)ZMODES.forEach(m=>state.coeff[m.id]=o.coeff[m.id]||0);
       SNAP_KEYS.forEach(k=>{if(k in o)state[k]=o[k];});
       /* the preset's own look, else a plain one — not whatever the view has */
-      state.zoom=o.zoom||1;state.exposure=o.exposure||1;state.gamma=o.gamma||1;state.absExp=!!o.absExp;
+      state.zoom=o.zoom||1;state.exposure=o.exposure||1;state.gamma=o.gamma||1;state.absExp=false;   /* a tile shows shape */
       /* far field: frame the classic 256-grid field (~30′) so the PSF reads;
          near source: the whole shadowgram */
       draft=false;const n=state.near?Math.min(fullN(),1024):512,frame=state.near?n:256;

diff --git a/engiscope/BACKLOG.md b/engiscope/BACKLOG.md
@@ -5,17 +5,6 @@ are listed once so the ground truth stays next to the code that used it.
 
 ## Next
 
-- **Straylight beyond the computed field.** Bright lights in a scene glare only
-  as far as the PSF grid reaches (±1.5° at 2048). Add the eye's straylight
-  outside it, from the CIE 2002 glare spread function (θ in degrees, 0.1°–100°):
-  Ψ(θ) = 10/θ³ + (5/θ² + 0.1p/θ)·[1 + (A/62.5)⁴] + 0.0025p sr⁻¹,
-  with A = age and p = pigmentation (0 dark … 1 blue-green). It is analytic,
-  so it can fill the whole scene kernel. Near streetlights it reaches
-  12–16 mag/arcsec² at 10° (Bará, arXiv 2212.09103).
-- **Dotted vertical line in the night scene.** It appears only with glare on.
-  Likely the kernel or the spectrum-product pass.
-- **Re-bake built-in preset thumbnails** (`?bake`). They changed with the
-  6 mm reference and the new eye, so they currently redraw live on first visit.
 - **Scene sources.**
   - A real sky from a star catalogue (all on jsDelivr with CORS):
     - d3-celestial `stars.6.json` (657 KB) or `stars.8.json`
@@ -106,3 +95,10 @@ Ritschel et al. 2009, *Temporal Glare*, and related work.
   (sph/cyl/axis, 12 mm vertex).
 - Absolute exposure on by default.
 - GPU scene convolution at the PSF's own scale, with true point sources.
+- Straylight in scenes:
+  - Uses the CIE 2002 glare spread function, with an age control.
+  - Full resolution inside the computed field, a coarse 3×-wide grid beyond it.
+  - It buries the float32 rounding of the FFT around very bright lights.
+- Antialiased pupil edge, which removed axis-aligned spikes.
+- Built-in presets completed from the defaults.
+- Thumbnails re-baked.
